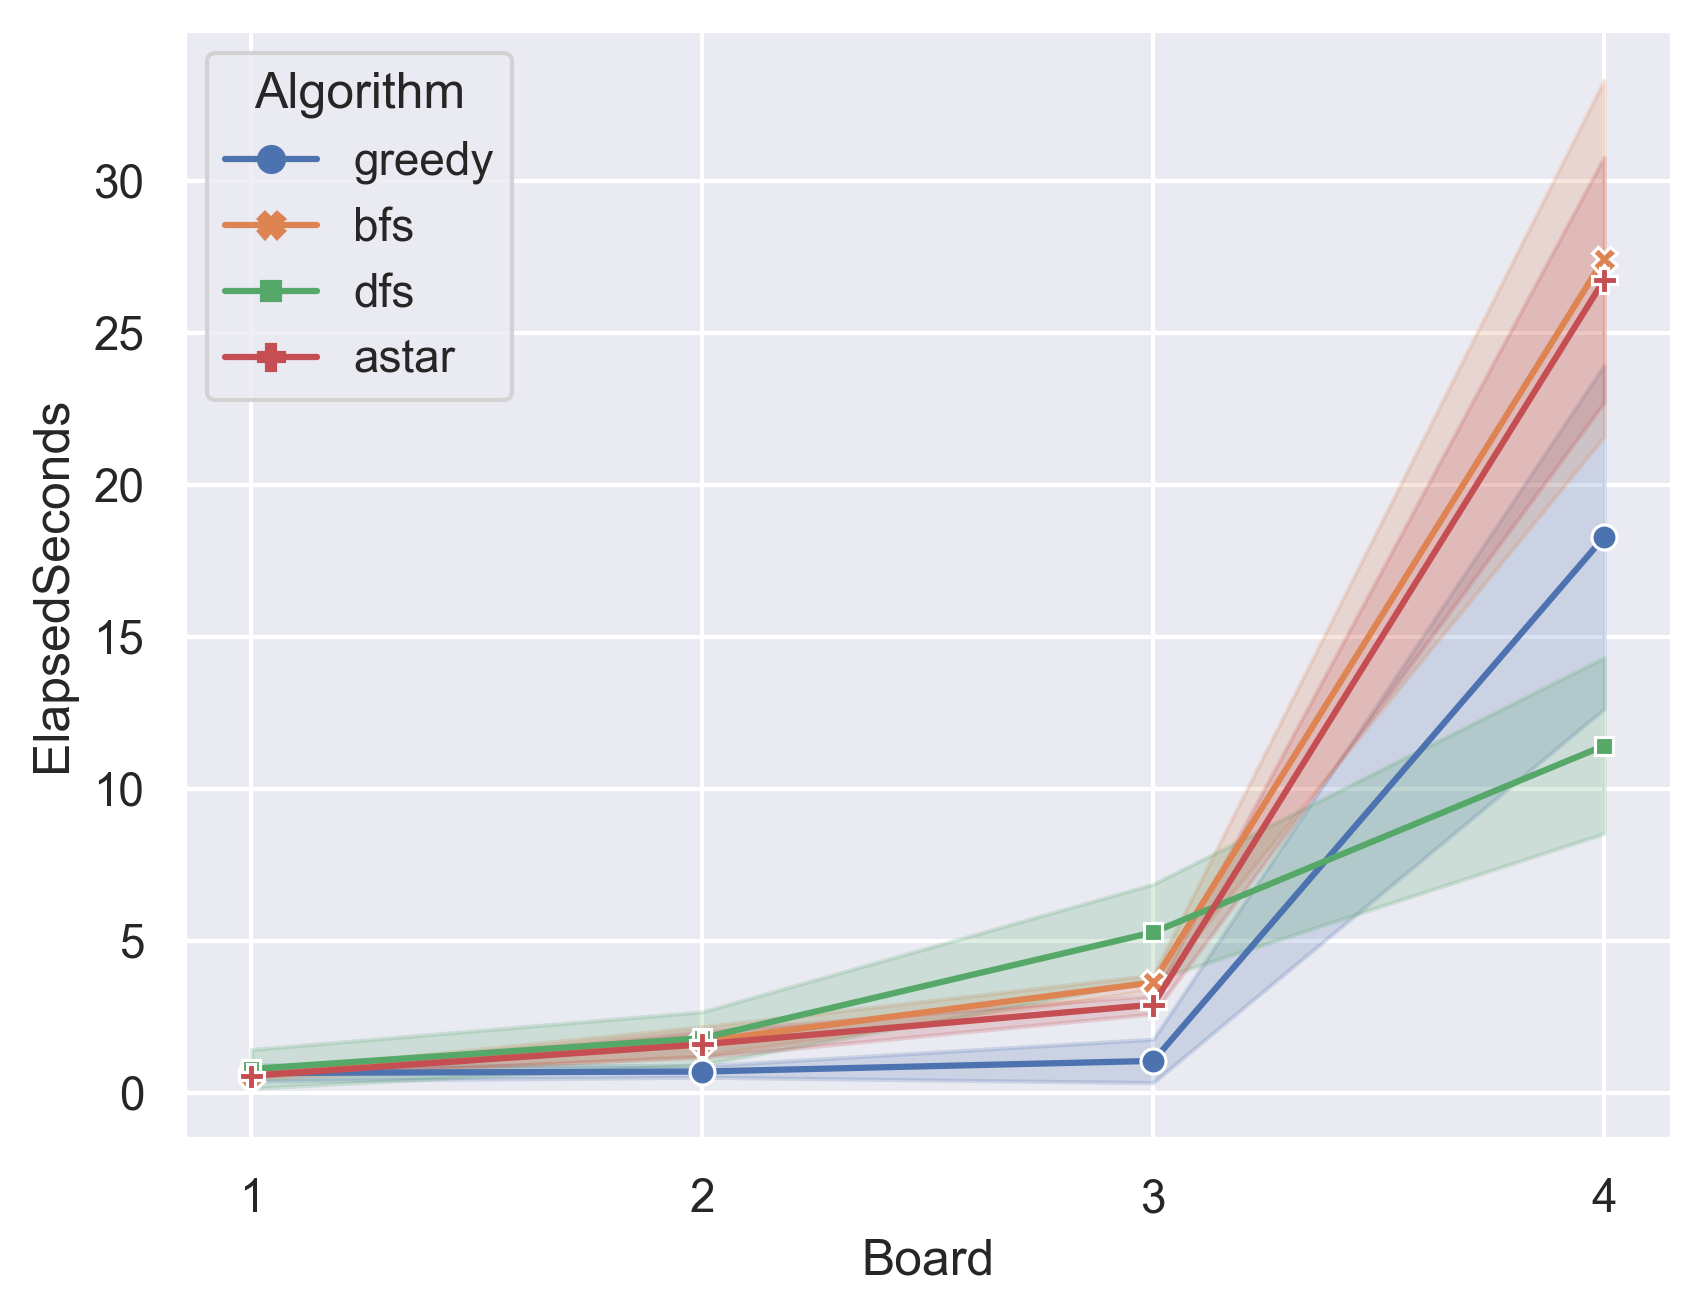
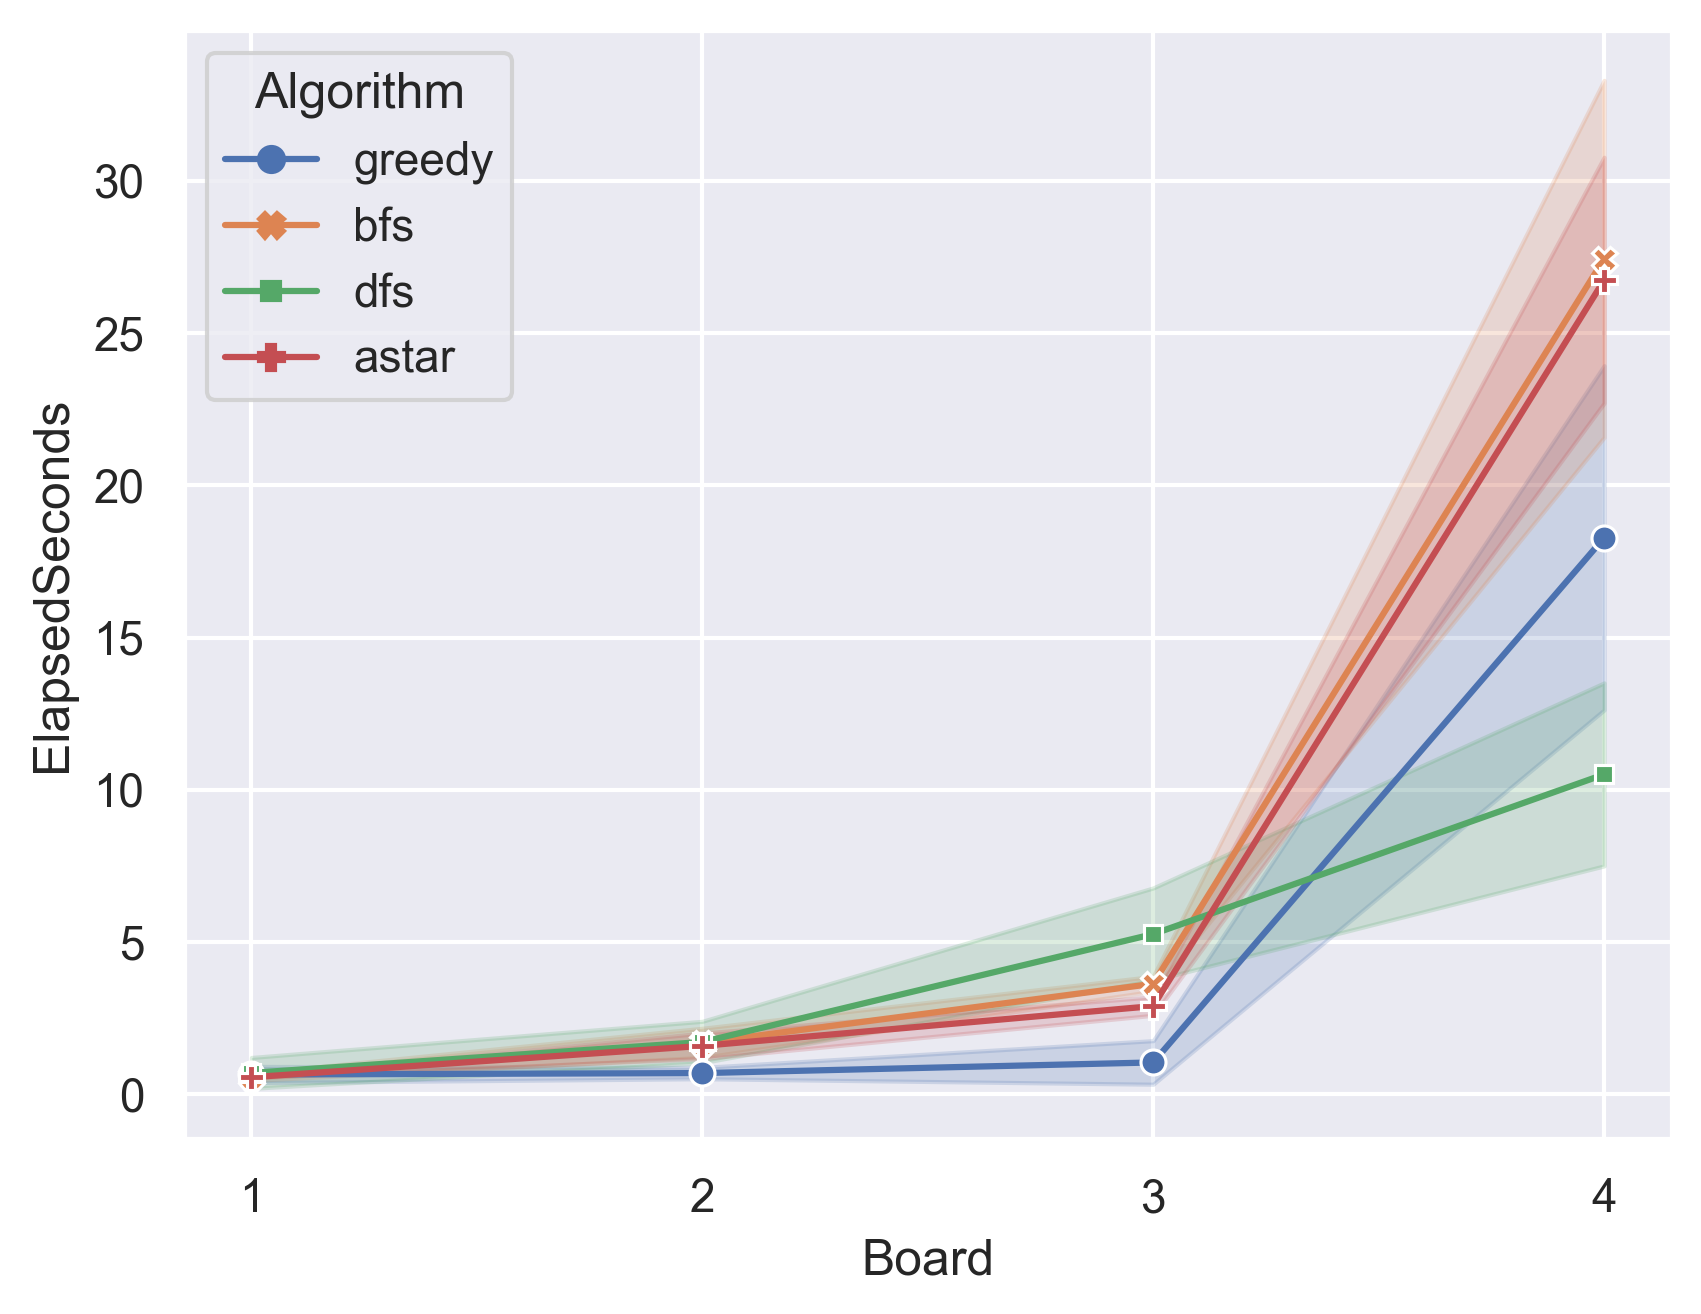
Finish

Changed region(s): [[0.1558, 0.4992, 0.9659, 0.8425], [0.0623, 0.468, 0.0935, 0.4992]]

diff --git a/scripts/plotter.py b/scripts/plotter.py
@@ -43,22 +43,22 @@ if __name__ == "__main__":
     plt.savefig("elapsed_seconds_lineplot.png", dpi=300, bbox_inches='tight')
     plt.close()
 
-    plt.figure()
-    amount_of_moves_to_win_plot = sns.lineplot(data=aggregated_df, x='Board', y='AmountOfMovesToWin', hue='Algorithm',
-                                               style='Algorithm', marker=True, dashes=False)
-    # Ensure x-axis labels are integers
-    amount_of_moves_to_win_plot.xaxis.set_major_locator(ticker.MaxNLocator(integer=True))
-    plt.savefig("amount_of_moves_to_win_lineplot.png", dpi=300, bbox_inches='tight')
-    plt.close()
-
-    plt.figure()
-    nodes_expanded_plot = sns.lineplot(data=aggregated_df, x='Board', y='NodesExpanded', hue='Algorithm',
-                                       style='Algorithm',
-                                       marker=True, dashes=False)
-    # Ensure x-axis labels are integers
-    nodes_expanded_plot.xaxis.set_major_locator(ticker.MaxNLocator(integer=True))
-    plt.savefig("nodes_expanded_lineplot.png", dpi=300, bbox_inches='tight')
-    plt.close()
+    # plt.figure()
+    # amount_of_moves_to_win_plot = sns.lineplot(data=aggregated_df, x='Board', y='AmountOfMovesToWin', hue='Algorithm',
+    #                                            style='Algorithm', marker=True, dashes=False)
+    # # Ensure x-axis labels are integers
+    # amount_of_moves_to_win_plot.xaxis.set_major_locator(ticker.MaxNLocator(integer=True))
+    # plt.savefig("amount_of_moves_to_win_lineplot.png", dpi=300, bbox_inches='tight')
+    # plt.close()
+    #
+    # plt.figure()
+    # nodes_expanded_plot = sns.lineplot(data=aggregated_df, x='Board', y='NodesExpanded', hue='Algorithm',
+    #                                    style='Algorithm',
+    #                                    marker=True, dashes=False)
+    # # Ensure x-axis labels are integers
+    # nodes_expanded_plot.xaxis.set_major_locator(ticker.MaxNLocator(integer=True))
+    # plt.savefig("nodes_expanded_lineplot.png", dpi=300, bbox_inches='tight')
+    # plt.close()
 
     plt.figure()
     frontier_nodes_plot = sns.lineplot(data=aggregated_df, x='Board', y='FrontierNodes', hue='Algorithm',

diff --git a/Searcher.py b/Searcher.py
@@ -43,20 +43,23 @@ class Searcher:
         return self.astar(starting_matrix, heuristic='none', cache=cache)
 
     def dfs(self, starting_matrix, cache, max_cost=1000):
-        stack = collections.deque([(starting_matrix, '')])
+        stack = collections.deque([starting_matrix])
+        action_sequence_cache = {str(starting_matrix): ''}
         while len(stack) > 0:
-            matrix, action_sequence = stack.pop()
+            matrix = stack.pop()
+            action_sequence = action_sequence_cache[str(matrix)]
             cache[str(matrix)] = len(action_sequence)
             if matrix.is_win():
-                return action_sequence, len(cache), 0
+                return action_sequence, len(cache), len(set(action_sequence_cache.keys()) - set(cache.keys()))
             if len(action_sequence) > max_cost:
                 continue
             for (action, _) in matrix.get_possible_actions():
                 successor = matrix.successor(action)
                 if str(successor) in cache:
                     continue
-                stack.append((successor, action_sequence + action))
-        return '', len(cache)
+                action_sequence_cache[str(successor)] = action_sequence + action
+                stack.append(successor)
+        return '', len(cache), len(set(action_sequence_cache.keys()) - set(cache.keys()))
 
     def greedy(self, starting_matrix, cache, heuristic='manhattan'):
         return self.astar(starting_matrix, cost='none', heuristic=heuristic, cache=cache)
@@ -90,4 +93,4 @@ class Searcher:
                 queue.add_item(successor,
                                matrix_cost_heuristic - matrix.heuristic + c(action_cost) + successor.heuristic,
                                successor.heuristic)
-        return '', len(cache)
+        return '', len(cache), len(set(action_sequence_cache.keys()) - set(cache.keys()))

diff --git a/scripts/run_multiple.py b/scripts/run_multiple.py
@@ -2,11 +2,11 @@ import subprocess
 
 # Define the command template and the arguments
 command_template = 'python3'
-arguments = ['main.py -b 1.sok -a bfs', 'main.py -b 2.sok -a bfs', 'main.py -b 3.sok -a bfs', 'main.py -b 4.sok -a bfs',
-             'main.py -b 1.sok -a dfs', 'main.py -b 2.sok -a dfs', 'main.py -b 3.sok -a dfs', 'main.py -b 4.sok -a dfs',
-             'main.py -b 1.sok -a greedy', 'main.py -b 2.sok -a greedy', 'main.py -b 3.sok -a greedy',
-             'main.py -b 4.sok -a greedy', 'main.py -b 1.sok -a astar', 'main.py -b 2.sok -a astar',
-             'main.py -b 3.sok -a astar', 'main.py -b 4.sok -a astar']
+arguments = [ # 'main.py -b 1.sok -a bfs', 'main.py -b 2.sok -a bfs', 'main.py -b 3.sok -a bfs', 'main.py -b 4.sok -a bfs',
+             'main.py -b 1.sok -a dfs', 'main.py -b 2.sok -a dfs', 'main.py -b 3.sok -a dfs', 'main.py -b 4.sok -a dfs']
+             # 'main.py -b 1.sok -a greedy', 'main.py -b 2.sok -a greedy', 'main.py -b 3.sok -a greedy',
+             # 'main.py -b 4.sok -a greedy', 'main.py -b 1.sok -a astar', 'main.py -b 2.sok -a astar',
+             # 'main.py -b 3.sok -a astar', 'main.py -b 4.sok -a astar']
 
 # Number of repetitions
 num_repetitions = 20
